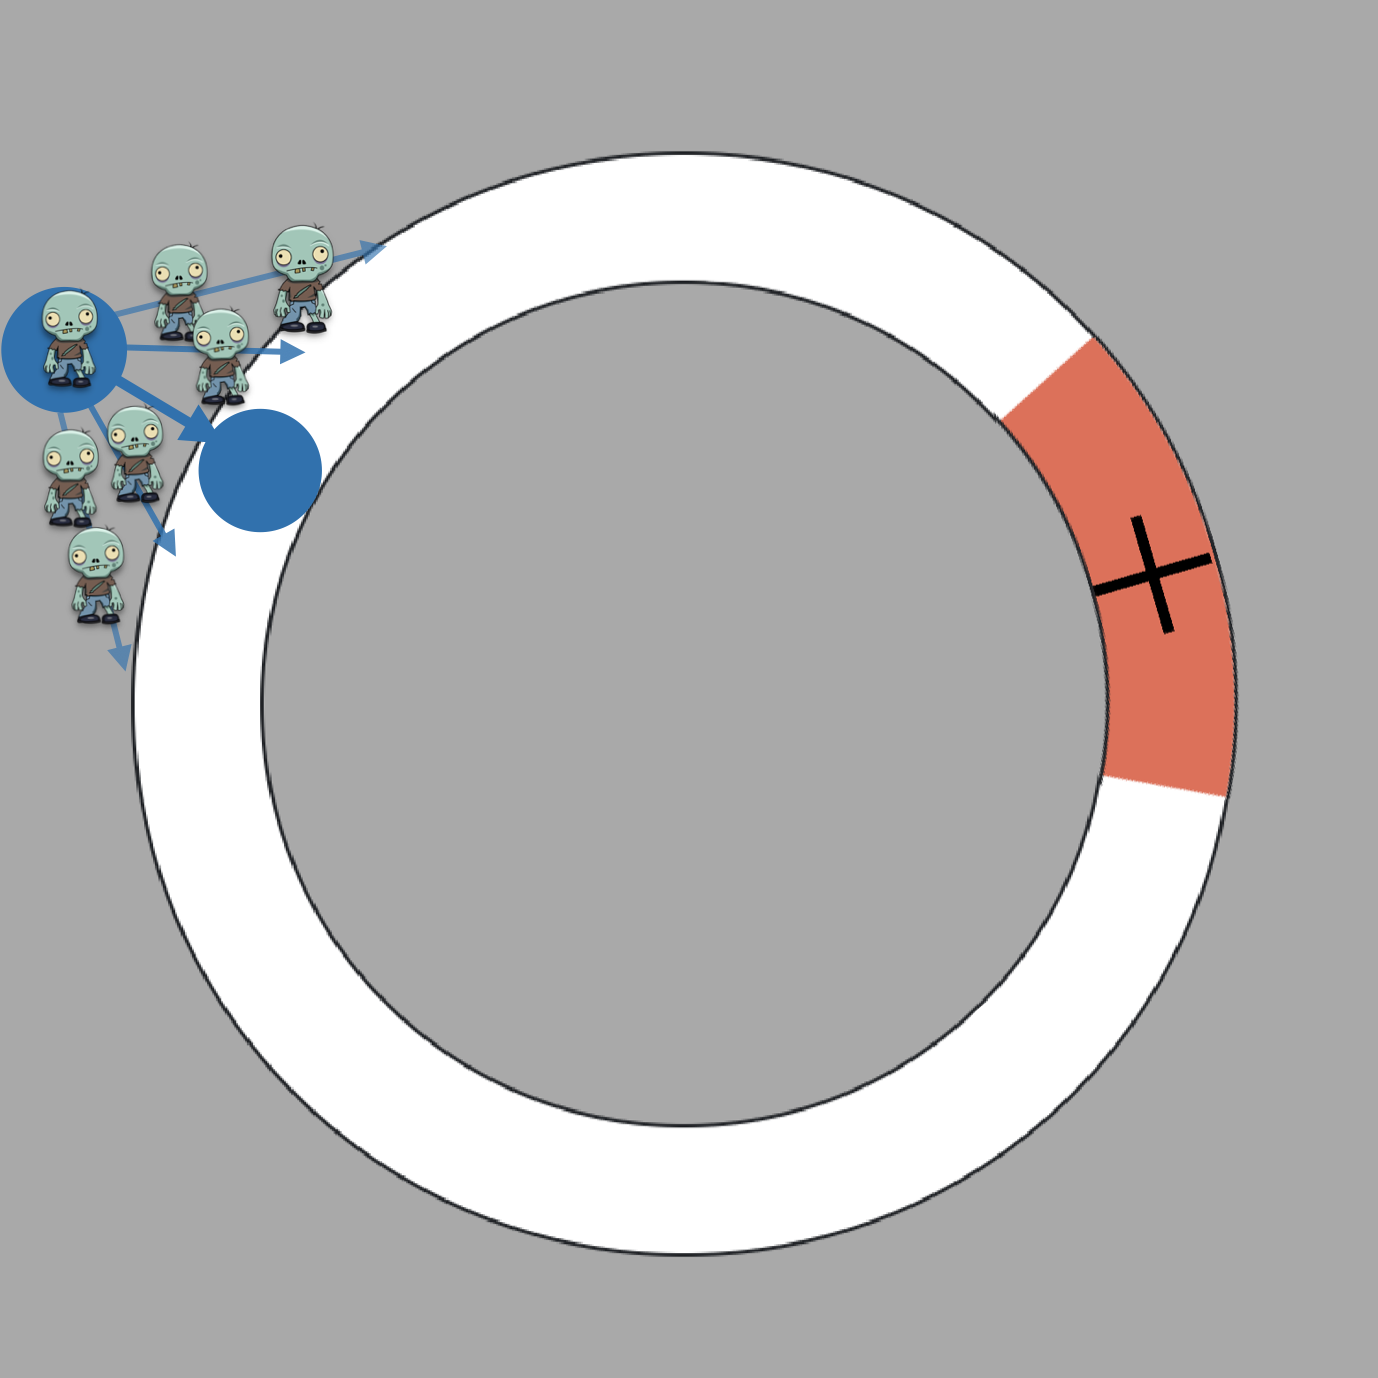
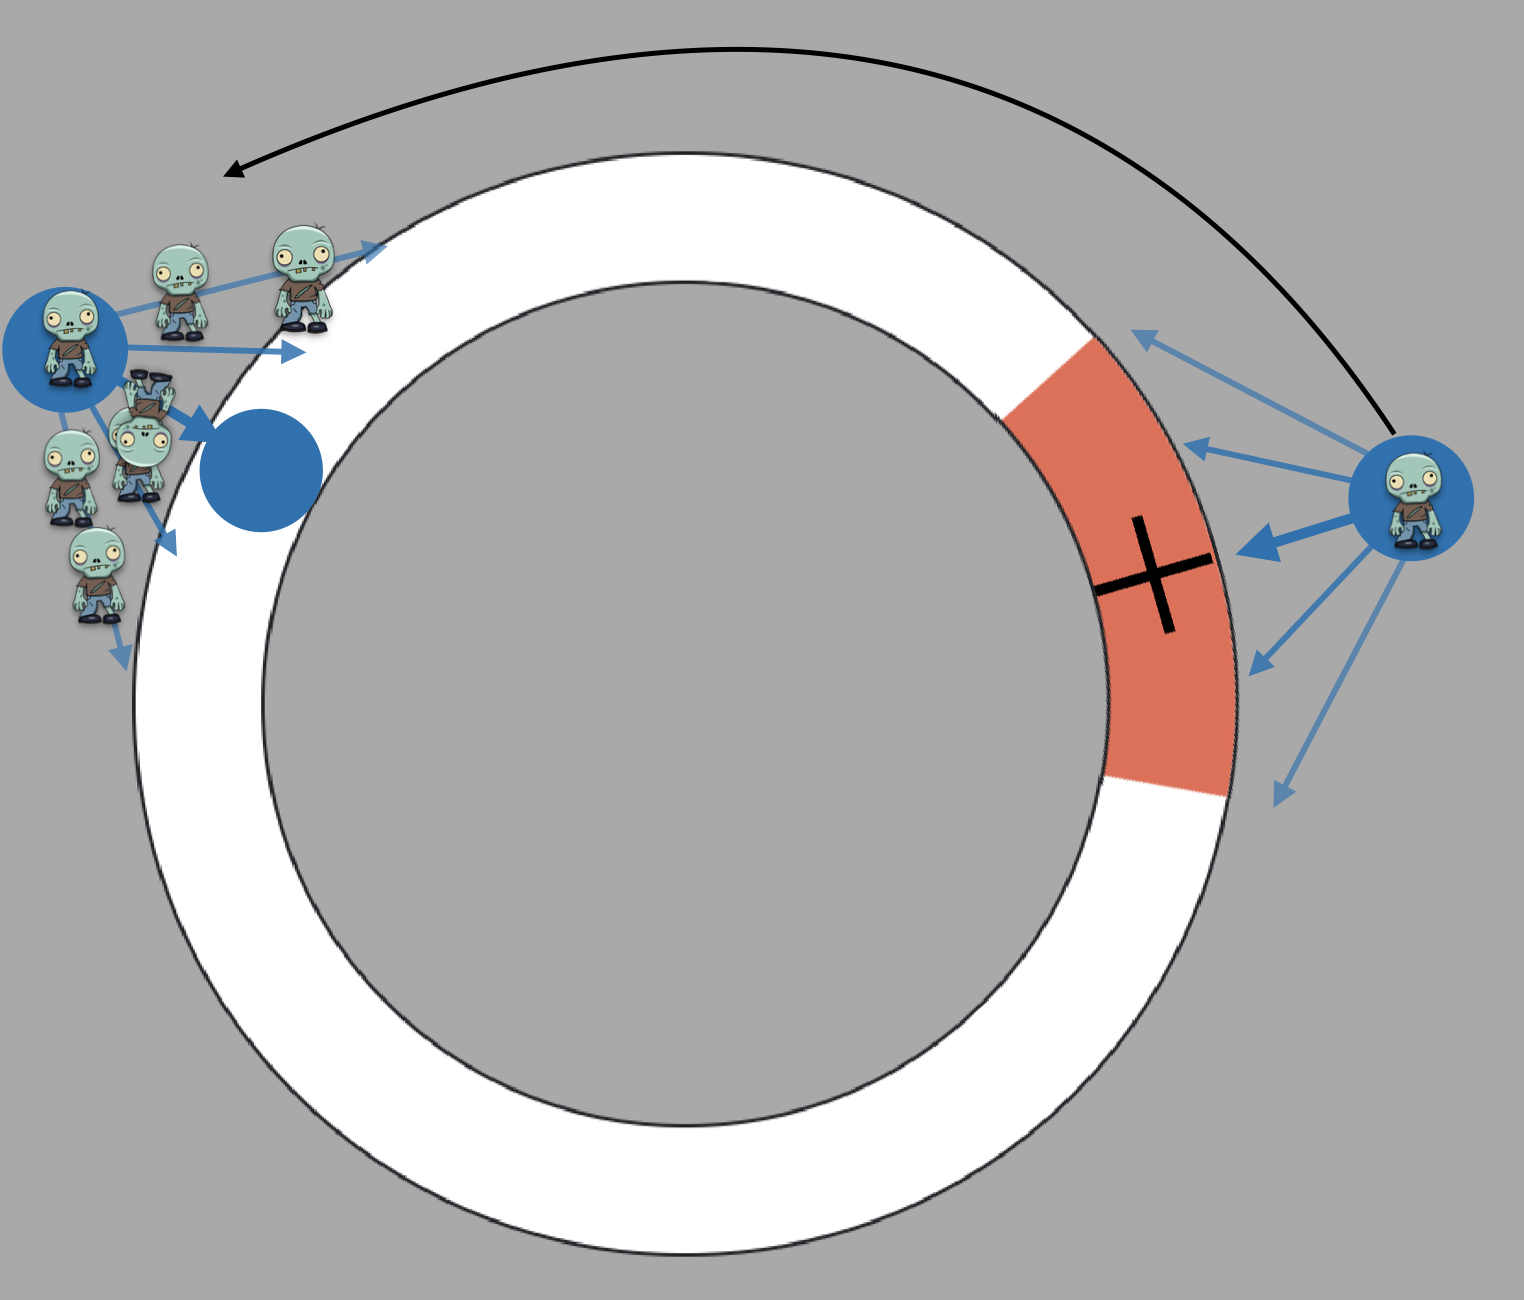
task edits: instructions, new block, image change, instruction loop

diff --git a/src/timelines/main.js b/src/timelines/main.js
@@ -90,9 +90,9 @@ function buildTimeline(jsPsych) {
   // consent form
   var consent_form = {
     type: jsPsychExternalHtml,
-    url: 'noham_consent_form.html',
+    url: 'online_consent_AMTprolific.html',
     execute_script: 'true',
-    cont_btn: 'next_button_hide',
+    cont_btn: 'brown-consent-button',
   };
   // // start fullscreen:
   var fullscreen_trial = {
@@ -121,7 +121,7 @@ function buildTimeline(jsPsych) {
        line-height: 2;">
         Imagine that we are in the world of Resident Evil. Your city is the only place not infected by the virus.
         <br>There are <b>multiple groups of zombies</b> attacking your city from <b>different directions</b>.
-        <br><u>Your goal is to set bombs to kill them and defend your city.</u>
+        <br><u>Your goal is to set bombs to kill the zombies and defend your city.</u>
       </p>
     </div>`,
       // pg 2
@@ -183,6 +183,103 @@ function buildTimeline(jsPsych) {
       task_type: 'instructions',
     },
   };
+  var practice_instruction1 = {
+    type: jsPsychHtmlButtonResponse,
+    choices: ['Start'],
+    stimulus: `<div><img src=${images['taskImg6.png']} style='top:10%; left: 10% ;height:450px;width: 450px'><h1></h1> 
+      <h2>Practice Round 1: Known Attack Spot </h2>
+      <p style='width: 960px;line-height:2;text-align:left'>
+      <b>Here's a hint:</b> In this round, the zombies preferred attack location is <u> 12 o'clock</u> (shown in image above).
+      <i>You should place your bomb here everytime to kill as many zombies as possible! </i>
+      </div>`,
+  }; //In order to kill as many zombies as possible, you should place your bomb here everytime!
+
+var practice_instruction2={
+    type: jsPsychHtmlButtonResponse,
+    choices: ['Start'],
+    stimulus: `
+    <div><<img src=${images['zombie.png']} style='top:20%; left: 10% ;height:300px;width:auto'><h1></h1>
+      <h2>Practice Round 2: Find the Attack Spot Yourself</h2>
+      <p style='width: 960px;line-height:2;text-align:center'><br>
+      <br>In the next practice, we <strong> will not</strong> show you the zombies preferred attack location ahead of time.
+      <br>You must <b>figure out their general attack location on your own</b>. This will be true for the rest of the task.
+      </div>`,
+  };
+
+  var practice01_end = {
+    // print scores and end block
+    type: jsPsychHtmlButtonResponse,
+    stimulus: function () {
+      // tally up block score
+      let n_trials = get_n_elapsed_trials();
+      const block_score = get_block_score(block_start_trial, n_trials);
+      let possible_block_score = n_trials - block_start_trial;
+      // print score in console and to the participant's screen
+      console.log('Block score: ' + block_score + '/' + possible_block_score);
+      // pg 5
+     return `
+     <div>
+        <img src=${images['taskImgp01.png']} style='top:20%; left: 10% ;height:400px;width: auto'><h1></h1> 
+        <p style='width: 960px;line-height:2;text-align:center'><br>
+          You scored ${block_score} / ${possible_block_score} possible points in this block.
+          <br>The true preferred location of the zombies was <u>7 o'clock</u> (shown in image above).
+        </p>
+      </div>`;
+    },
+    choices: ['Next'],
+    on_load: function () {
+      // update starting index for the next block
+      let n_trials = get_n_elapsed_trials();
+      block_start_trial = n_trials;
+    }
+  };
+    var practice_intermed1 = {
+    type: jsPsychInstructions,
+    pages:[
+        // pg 6
+      `<div><img src=${images['taskImg5.png']} style='top:20%; left: 10% ;height:400px;width: auto'><h1></h1> 
+      <p style='width: 960px;line-height:2;text-align:left'><br>
+      <br>It's also important to note that zombies of the same color will <b>occasionally redirect their attacks to a completely new location on the perimeter.</b>
+      </div>`,
+     //pg 7 (intro practice)
+      `<div><<img src=${images['zombie.png']} style='top:20%; left: 10% ;height:300px;width:auto'><h1></h1> 
+      <h2>Practice Round 3</h2>
+      <p style='width: 960px;line-height:2;text-align:center'><br>
+      <br>Similar to the last practice, you will have practice finding the zombie's general attack location, but stay alert:
+      <br><b>The zombies will occasionally redirect their attacks to a completely new location.</b>
+      </div>`,],
+    //Last round, we told you the exact central attack point of the zombies to guide your bomb placement. Now, you will practice finding the best bomb location on your own. Good luck!
+    //However, we will not tell you the zombies attack location this time, but you will have to figure this out. This will be true for the rest of the trials.
+    show_clickable_nav: true,
+    button_label_previous: 'Previous',
+    button_label_next: 'Next',
+    data: {
+      task_type: 'instructions',
+    },
+  };
+  var practice_intermed2 = {
+    type: jsPsychInstructions,
+    pages: [
+      `<div style='width: 960px; line-height:2; text-align:left;'>
+        <img src=${images['taskImg7.png']} style='display:block; margin: auto; height: 400px;'><br>
+        <p>Lastly, up to three different groups of zombies may attack at the same time.
+        <br>Each group of zombies is represented by a <b>different color</b>, signaled by the background color of the bomb.
+        <br> Each group also has a <b>different preferred attack location</b>, so pay attention!</p>
+        <p>In the image above, you would place the  <span style="color: blue; font-weight: bold;">blue bomb</span> where the blue zombies usually hit.</p>
+      </div>`,
+      `<div style='width: 960px; line-height:2; text-align:left;'>
+      <h2>Practice Round 4: Multiple Zombie Groups</h2>
+        <p>With that, you will now practice finding the attack locations of <b>two zombie groups</b> represented by two different colors.</p>
+        <p>Let's try some practice trials!</p>
+      </div>`
+    ],
+    show_clickable_nav: true,
+    button_label_previous: 'Previous',
+    button_label_next: 'Start Practice',
+    data: {
+      task_type: 'instructions',
+    },
+  };
   // note: could also use jsPsychSurvey and update the rules (e.g., use loop function on timeline) to send participants back to the beginning of the instructions if they get 1 wrong
   //after practiceblock0, then show instructions for the rest of the task
   var pre_quiz = {
@@ -191,8 +288,9 @@ function buildTimeline(jsPsych) {
 
       // pg 7
       `<div><p style='width: 960px;line-height:2;text-align:left'>
-      Before doing some practice trials, you will be asked a few quiz questions about the instructions.
-      <br>Please review all instructions now to make sure you understand the task. You will <b>not</b> be able to revisit them later.</p>
+      Good job completing the practice!
+      <br> Lastly, you will be asked a few quiz questions about the instructions.
+      <br> You will be returned to the beginning of the instructions if you answer any question incorrectly.
       </div>`,
       ],
     show_clickable_nav: 'true',
@@ -291,104 +389,36 @@ var free_response_feedback = {
     const block_score = block_scores.reduce((sum, score) => sum + score, 0);
     return block_score;
   }
-  
-  var practice_instruction1 = {
-    type: jsPsychHtmlButtonResponse,
-    choices: ['Start'],
-    stimulus: `<div><img src=${images['taskImg6.png']} style='top:10%; left: 10% ;height:450px;width: 450px'><h1></h1> 
-    <p style='width: 960px;line-height:1;text-align:center;font-size:40px'><br>
-      <br>Let's practice!
-      <p style='width: 960px;line-height:2;text-align:left'>
-      <b>Here's a hint:</b> In this round, the zombies preferred attack location is <u> 12 o'clock</u> (shown in image above).
-      You should place your bomb here everytime to kill as many zombies as possible! 
-      </div>`,
-  }; //In order to kill as many zombies as possible, you should place your bomb here everytime!
 
-var practice_instruction2={
-    type: jsPsychHtmlButtonResponse,
-    choices: ['Start'],
-    stimulus: `
-    <div><<img src=${images['zombie.png']} style='top:20%; left: 10% ;height:300px;width:auto'><h1></h1>
-    <p style='width: 960px;line-height:2;text-align:center'><br>
-      <br>Let's do some more advanced practice.
-      <br>This round, we will not show where the zombies will attack, so you will have to <b>find their general attack location on your own</b>. This will be true for the rest of the task.
-      </div>`,
-  };
 
-  var practice01_end = {
-    // print scores and end block
-    type: jsPsychHtmlButtonResponse,
-    stimulus: function () {
-      // tally up block score
-      let n_trials = get_n_elapsed_trials();
-      const block_score = get_block_score(block_start_trial, n_trials);
-      let possible_block_score = n_trials - block_start_trial;
-      // print score in console and to the participant's screen
-      console.log('Block score: ' + block_score + '/' + possible_block_score);
-      // pg 5
-     return `
-     <div>
-        <img src=${images['taskImgp01.png']} style='top:20%; left: 10% ;height:400px;width: auto'><h1></h1> 
-        <p style='width: 960px;line-height:2;text-align:center'><br>
-          Great job! You got ${block_score} / ${possible_block_score} possible points in this block.
-          <br>The true preferred location of the zombies was <u>7 o'clock</u> (shown in image above).
-        </p>
-      </div>`;
-    },
-    choices: ['Next'],
-    on_load: function () {
-      // update starting index for the next block
-      let n_trials = get_n_elapsed_trials();
-      block_start_trial = n_trials;
-    }
-  };
-  var practice_intermed1 = {
+  var instructions2 = {
     type: jsPsychInstructions,
-    pages:[
-        // pg 6
+    pages: [
+      // pg 6
       `<div><img src=${images['taskImg5.png']} style='top:20%; left: 10% ;height:400px;width: auto'><h1></h1> 
       <p style='width: 960px;line-height:2;text-align:left'><br>
       <br>It's also important to note that zombies of the same color will <b>occasionally redirect their attacks to a completely new location.</b>
       </div>`,
-     //pg 7 (intro practice)
-      `<div><<img src=${images['zombie.png']} style='top:20%; left: 10% ;height:300px;width:auto'><h1></h1> 
-    <p style='width: 960px;line-height:2;text-align:center'><br>
-    <b> Let's practice again!</b>
-      <br>Similar to the last practice, we will not show where the zombies will attack, so you will have to find their general attack location on your own. 
-      <br><b>REMINDER: </b>The zombies will occasionally redirect their attacks to a completely new location.
-      </div>`,],
-    //Last round, we told you the exact central attack point of the zombies to guide your bomb placement. Now, you will practice finding the best bomb location on your own. Good luck!
-    //However, we will not tell you the zombies attack location this time, but you will have to figure this out. This will be true for the rest of the trials.
-    show_clickable_nav: true,
-    button_label_previous: 'Previous',
-    button_label_next: 'Next',
-    data: {
-      task_type: 'instructions',
-    },
-  };
-  var practice_intermed2 = {
-    type: jsPsychInstructions,
-    pages: [
       `<div style='width: 960px; line-height:2; text-align:left;'>
         <img src=${images['taskImg7.png']} style='display:block; margin: auto; height: 400px;'><br>
-        <p>Great job! Sometimes, there will be multiple groups of zombies.
+        <p>Finally, there may be multiple groups of zombies attacking the city in one block.
         <br>Each group of zombies is represented by a <b>different color</b>, signaled by the background color of the bomb.
         <br> Each group also has a <b>different preferred attack location</b>, so pay attention!</p>
-        <p>In the image above, you would place the bomb at the blue zombies preferred location.</p>
+        <p><i>In the image above, you would place the bomb at the blue zombies preferred location.</i></p>
       </div>`,
-      `<div style='width: 960px; line-height:2; text-align:left;'>
-        <p>Now, instead of just 1 group of zombies attacking your city, there will be <b>two groups</b> represented by two different colors.</p>
-        <p>Let's try some practice trials!</p>
-      </div>`
+        `<div style='width: 960px; line-height:2; text-align:left;'>
+        <p> Now, you will be asked a few quiz questions about the instructions again.
+        <br>Please review all instructions now to make sure you understand the task. You will be returned to the instructions if you answer any question incorrectly.</p>
+      </div>`,
     ],
     show_clickable_nav: true,
     button_label_previous: 'Previous',
-    button_label_next: 'Start Practice',
+    button_label_next: 'Next',
+    button_label_start: 'Start Quiz',
     data: {
       task_type: 'instructions',
     },
   };
-
 
   var practice_end = {
     // print scores and end block
@@ -448,6 +478,44 @@ var practice_instruction2={
     return lastTrial && lastTrial.repeatPractice === true;
   }
   };
+  const quiz_instruction_reset = {
+  timeline: [
+    instructions1,
+    instructions2,
+    check1_question,
+    check2_question,
+    check3_question,
+    {
+      type: jsPsychHtmlKeyboardResponse,
+      stimulus: function () {
+        const last_3 = jsPsych.data.get().filter({ trial_type: 'survey-multi-choice' }).last(3).values();
+        const q1_correct = last_3[0].response.Q0 === check1_opts[1];
+        const q2_correct = last_3[1].response.Q0 === check2_opts[1];
+        const q3_correct = last_3[2].response.Q0 === check3_opts[3];
+
+        if (q1_correct && q2_correct && q3_correct) {
+          return '<h2>✅ All questions are correct!</h2><p>Press any key to continue.</p>';
+        } else {
+          let msg = '<h2>⚠ You did not answer all questions correctly.</h2><p>Let\'s review the instructions.</p><ul>';
+          if (!q1_correct) msg += '<li>Question 1 was incorrect.</li>';
+          if (!q2_correct) msg += '<li>Question 2 was incorrect.</li>';
+          if (!q3_correct) msg += '<li>Question 3 was incorrect.</li>';
+          msg += '</ul><p>Press any key to go back and try again.</p>';
+          return msg;
+        }
+      }
+    }
+  ],
+  loop_function: function () {
+    const last_3 = jsPsych.data.get().filter({ trial_type: 'survey-multi-choice' }).last(3).values();
+    const q1_correct = last_3[0].response.Q0 === check1_opts[1];
+    const q2_correct = last_3[1].response.Q0 === check2_opts[1];
+    const q3_correct = last_3[2].response.Q0 === check3_opts[3];
+
+    // If all correct, exit loop; otherwise, repeat
+    return !(q1_correct && q2_correct && q3_correct);
+  }
+};
 
   // run task!!!
   // welcome + consent
@@ -479,6 +547,7 @@ var practice_instruction2={
   timeline.push(check1_question);
   timeline.push(check2_question);
   timeline.push(check3_question);
+  timeline.push(quiz_instruction_reset);
   // add practice end
 
 

diff --git a/src/js/blocksetting123.js b/src/js/blocksetting123.js
@@ -13,7 +13,7 @@ import { images } from '../lib/utils';
 
 // design
 const n_TrialPerBlock = 200;
-const n_TrialPractice = 10; // FIX THIS !11
+const n_TrialPractice = 25; // FIX THIS !11
 const n_SamePosition = 7;
 const n_MaxJitter = 4; // 7-11, avg of 9
 const rtDeadline = 15000;
